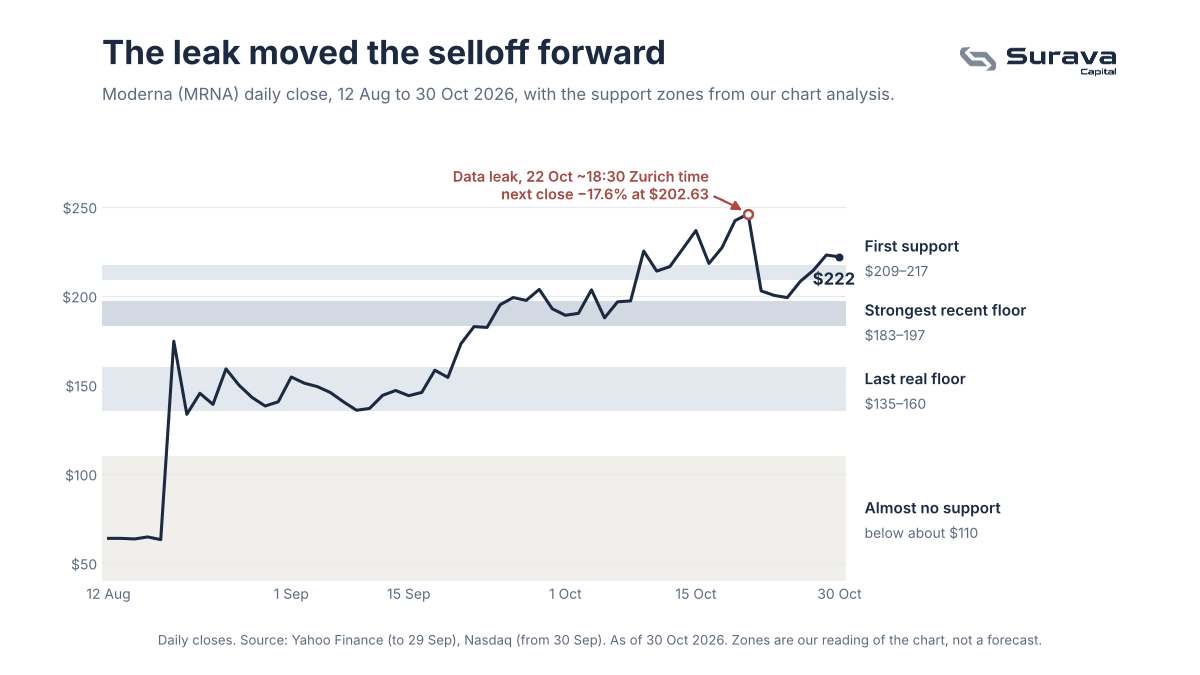
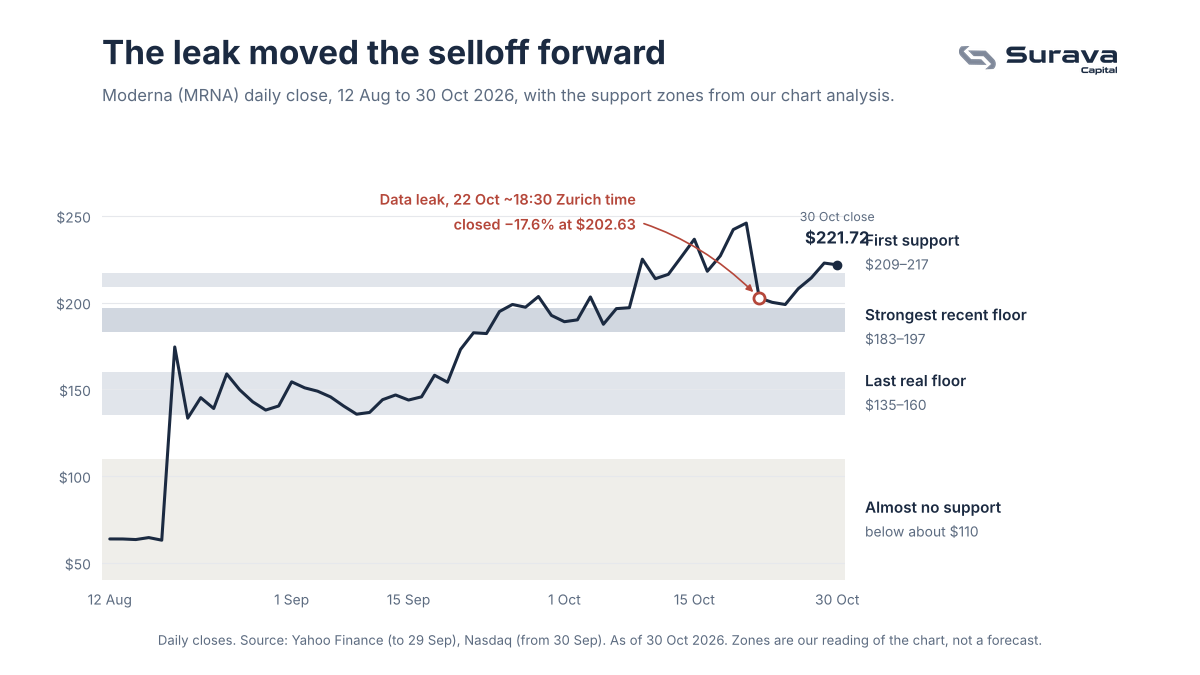
Insight 06: cleaner leak chart labels, note on the floor holding
Claude-Session: https://claude.ai/code/session_01WpBD1xyudXb2RymFqqBTDe

diff --git a/insights/insight-06-moderna-conclusion.html b/insights/insight-06-moderna-conclusion.html
@@ -97,9 +97,10 @@
       <p>The <mark class="skim">selloff therefore started two days earlier than planned</mark>, within the same trading session. The stock <mark class="skim">fell as much as 26%</mark> during the day and <mark class="skim">closed about 17% lower at 202.63 dollars</mark>. Without the leak, the market would only have reacted on Monday, 26 October.</p>
 
       <figure style="margin:24px 0 28px;">
-        <img src="/assets/charts/moderna-leak-aftermath.png" alt="Line chart of Moderna's daily close from 12 August to 30 October 2026 with four support zones. After the data leak on 22 October the stock closed 17.6% lower at 202.63 dollars, then recovered to about 222 dollars by 30 October" style="width:100%; height:auto; border:1px solid #E2E6EA; border-radius:10px; display:block;" />
+        <img src="/assets/charts/moderna-leak-aftermath.png?v=2" alt="Line chart of Moderna's daily close from 12 August to 30 October 2026 with four support zones. After the data leak on 22 October the stock closed 17.6% lower at 202.63 dollars, then recovered to 221.72 dollars by 30 October" style="width:100%; height:auto; border:1px solid #E2E6EA; border-radius:10px; display:block;" />
         <figcaption style="margin-top:10px; font-size:0.85rem; color:#6B7480;">The leak pulled the selloff forward by two trading days. Zones are our reading of the chart, not a forecast. Sources: Yahoo Finance, Nasdaq.</figcaption>
       </figure>
+      <p>The <mark class="skim">strongest recent floor held</mark>. The 209 to 217 dollar zone gave way, but the 183 to 197 dollar zone from our <a href="/insights/insight-05-moderna-hazard-ratio.html">chart analysis</a> caught the fall. During the day the stock briefly dipped to about 180 dollars, yet <mark class="skim">no close fell below 197 dollars</mark>. The lowest close was 198.85 dollars on 26 October, and by 30 October the stock was <mark class="skim">back at 221.72 dollars</mark>. That shows where buyers stepped in this time, not where they will next time.</p>
       <p>The leaked figures turned out to be <mark class="skim">practically identical to the official results</mark>. ESMO lifted the embargo (the publication freeze) the same day, and Merck and Moderna confirmed the numbers: a <mark class="skim">42% lower risk of the cancer returning or death</mark> compared with Keytruda alone, Merck's immunotherapy and today's standard treatment after surgery.</p>
       <p>Who was behind the leak is still unclear, and <mark class="skim">ESMO is investigating</mark>. It is an interesting side story, but we won't pursue it further here. The next real test is the <mark class="skim"><a href="https://investors.modernatx.com" target="_blank" rel="noopener">quarterly earnings report on 6 November</a></mark>.</p>
 
@@ -113,7 +114,7 @@
       <aside class="article-disclaimer">
         <span class="article-disclaimer-label">Disclaimer</span>
         <p>This article is for general educational and informational purposes only. It is not investment, tax, or legal advice, a recommendation to buy or sell any security, or an offer of any regulated financial service. Investing involves risk, including the possible loss of principal, and past performance does not indicate future results. Views expressed are those of Surava Capital.</p>
-        <p>It reflects conditions as of 30 October 2026 and may be overtaken by events. Data cited from Moderna and Merck company releases, ESMO, CNBC, Benzinga, EMJ and StockAnalysis.</p>
+        <p>It reflects conditions as of 30 October 2026 and may be overtaken by events. Data cited from Moderna and Merck company releases, ESMO, CNBC, Benzinga, EMJ, StockAnalysis, Yahoo Finance and Nasdaq.</p>
       </aside>
 
       <p style="margin-top:28px;"><a href="/insights/" class="btn btn-secondary">Back to Insights</a></p>
